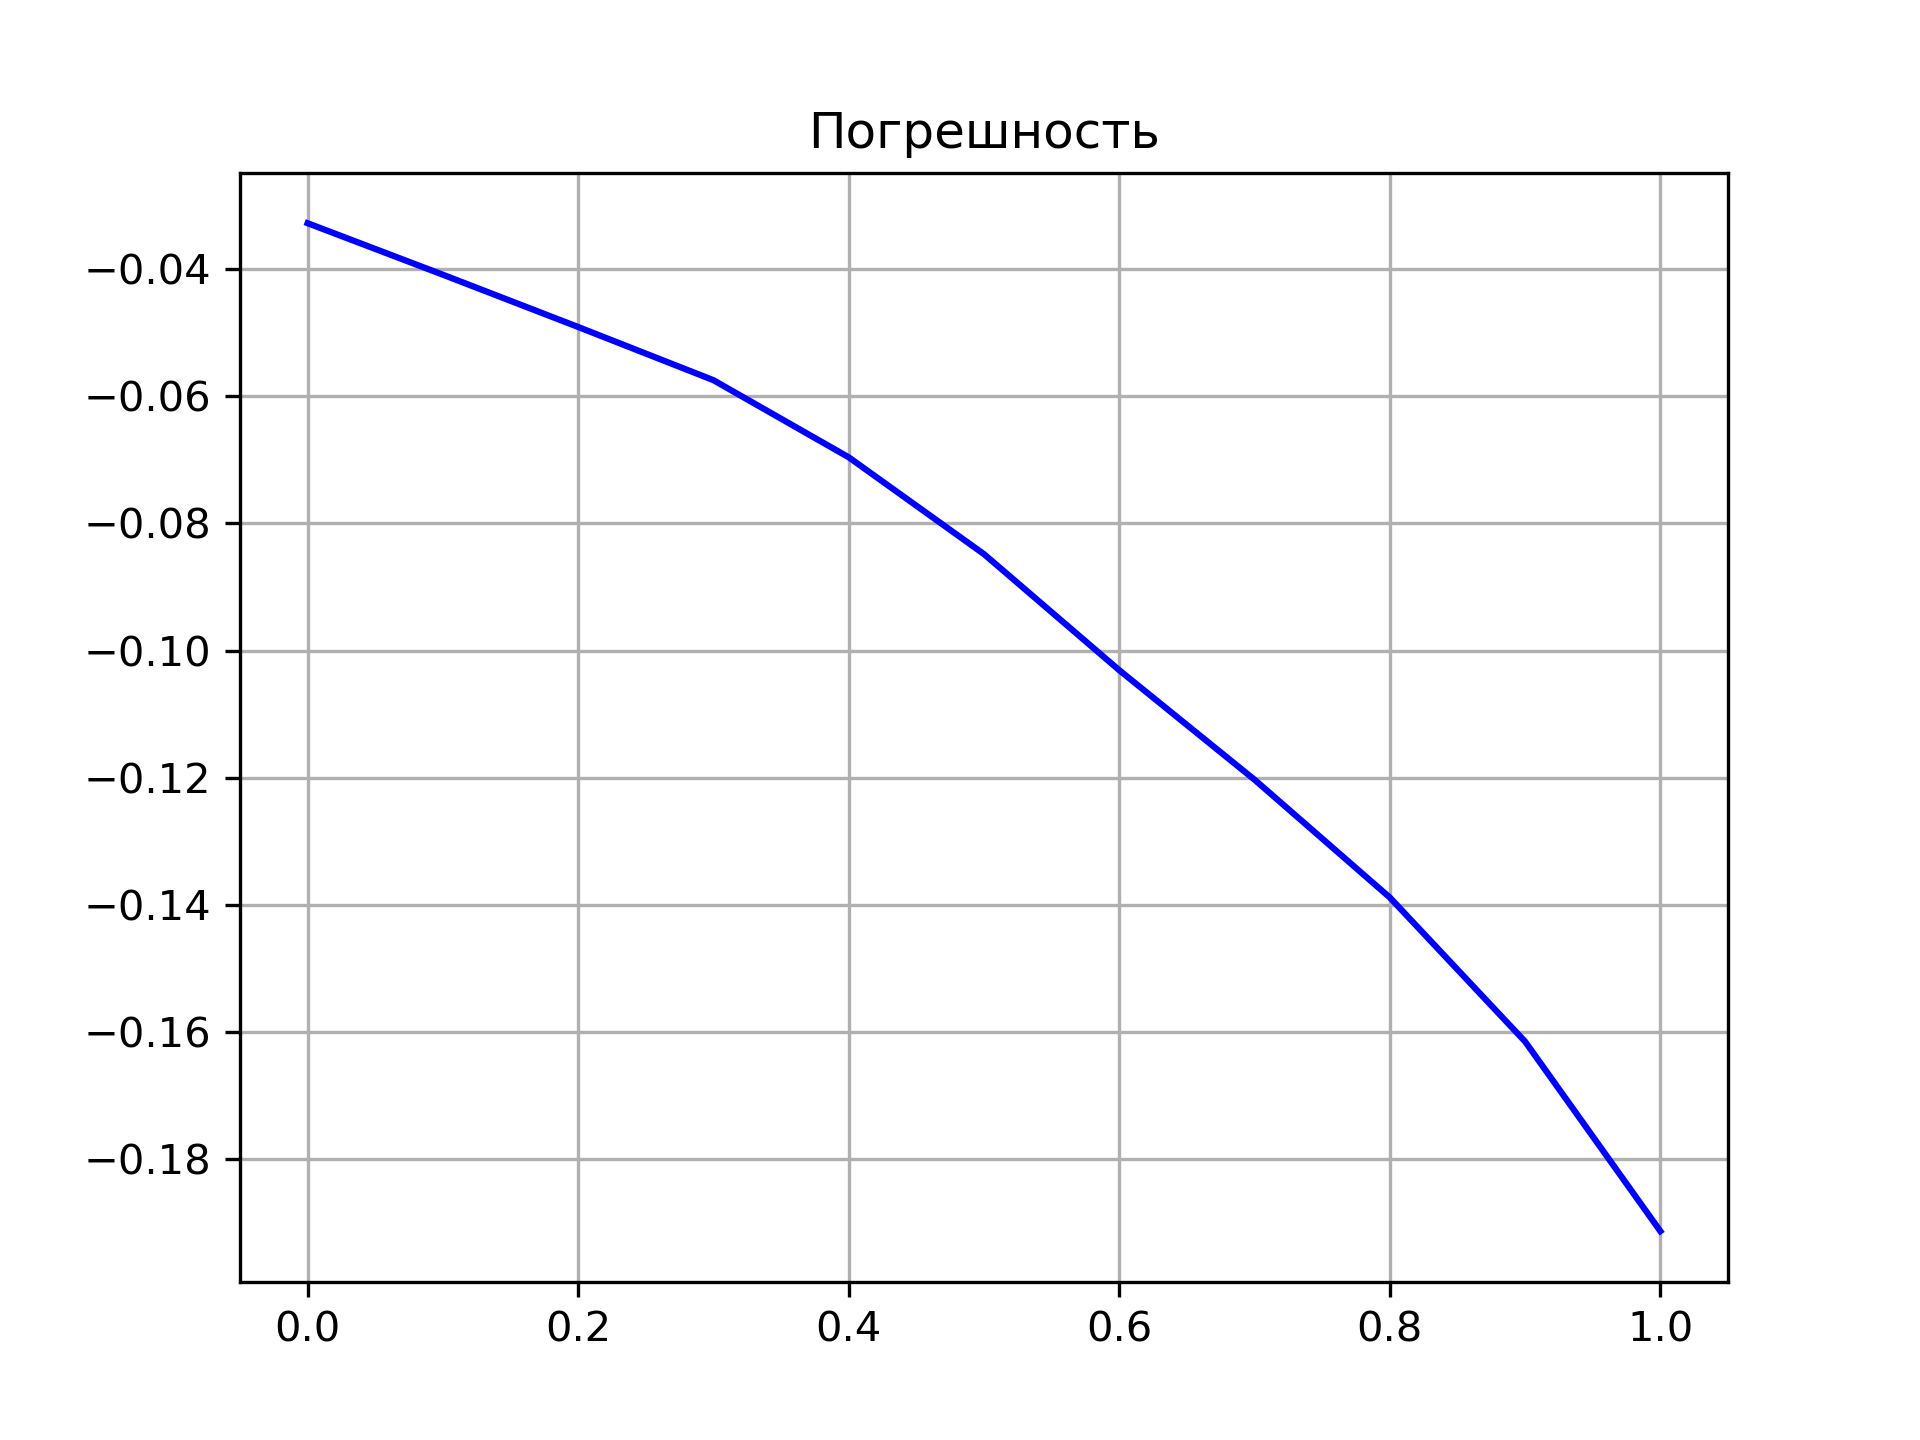
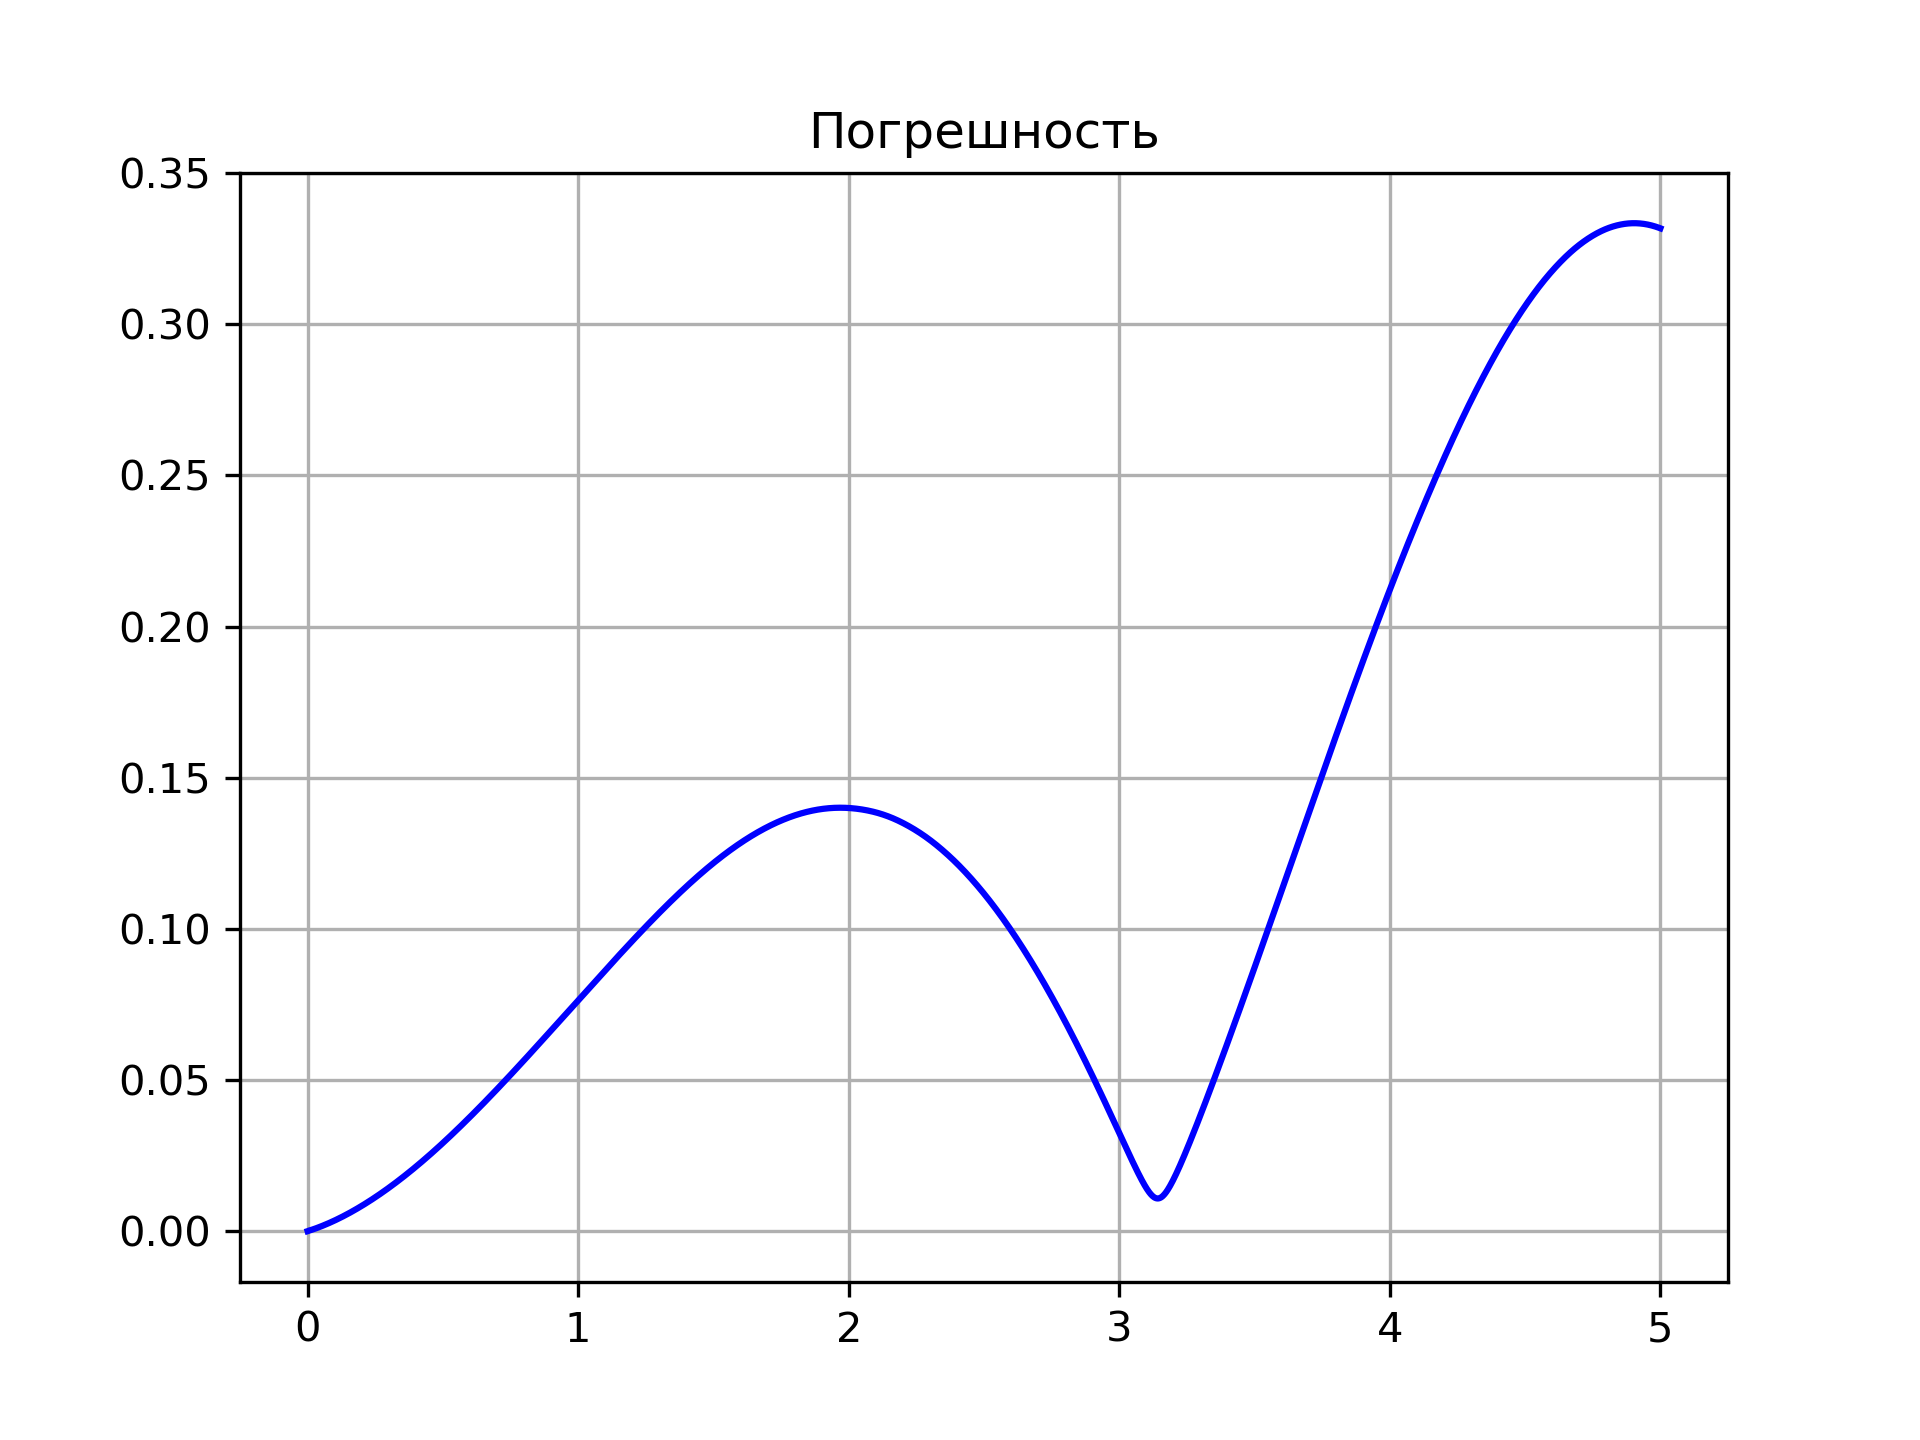
Добавление сигмы и начало придумывания extra коэфа (ЛР2)

diff --git a/lab2/laba.py b/lab2/laba.py
@@ -1,19 +1,20 @@
-from numpy import exp, cos, array, zeros, sqrt, linalg, around, array_repr
+from numpy import exp, cos, array, zeros, sqrt, linalg, around, array_repr, linspace
 import matplotlib.pyplot as plt
+from math import ceil
 
 def f1(x):
     """Вычисление значение на нулевом слое\n\nx - i-ое значение икса из разбиения числовой прямой"""
-    return round(exp(2 * x), 7)
+    return round(exp(2 * x), 10))
 
 def U(x, t):
     """Аналитическое решение\n\nx - i-ое значение икса на разбиении числовой прямой\n\nt - k-ое времени t на разбиении времени"""
-    return round(f1(x) * cos(t), 7)
+    return round(f1(x) * cos(t), 10))
 
 def explicit_method(u, h, t, approximation):
     """Явный метод\n\nu - заполняемая матрица\n\nh - шаг по иксу\n\nt - шаг по времени\n\napproximation - метод аппрокисмации"""
     N = u.shape[1] - 1
     last_layer = u.shape[0] - 1
-    h = round(h**2, 7); t = round(t**2, 7) # Возведение h и t в квадрат для экономии времени при расчете слоя
+    h = round(h**2, 10)); t = round(t**2, 10)) # Возведение h и t в квадрат для экономии времени при расчете слоя
     for k in range(2, last_layer+1):
         for i, _ in enumerate(u[k]):
             if i == 0:
@@ -22,8 +23,8 @@ def explicit_method(u, h, t, approximation):
                 u = approximation(u, k, sqrt(h), sqrt(t))
                 break
             u[k, i] = t/h * u[k-1, i-1] + (2*h - 5*h*t - 2*t)/h * u[k-1, i] + t/h * u[k-1, i+1] - u[k-2, i]
-            u[k, i] = round(u[k, i], 7)
-    return u[last_layer]
+            u[k, i] = round(u[k, i], 10))
+    return u
 
 def implicit_method(u, h, t, approximation):
     """Неявный метод\n\nu - заполняемая матрица\n\nh - шаг по иксу\n\nt - шаг по времени\n\napproximation - метод аппрокисмации"""
@@ -39,24 +40,24 @@ def implicit_method(u, h, t, approximation):
                 A[N, N], A[N, N-1], A[N, N-2], B[N] = approximation(u, k, h, t, i=N)
                 break
             else:
-                A[i][i - 1] = round(1 / h**2, 7)
-                A[i][i] = round(-1/t**2 - 2/h**2 - 5, 7)
-                A[i][i + 1] = round(1 / h**2, 7)
-                B[i] = round((-2 * u[k-1, i] + u[k-2, i]) / t**2, 7)
+                A[i][i - 1] = round(1 / h**2, 10))
+                A[i][i] = round(-1/t**2 - 2/h**2 - 5, 10))
+                A[i][i + 1] = round(1 / h**2, 10))
+                B[i] = round((-2 * u[k-1, i] + u[k-2, i]) / t**2, 10))
         u[k] = around(linalg.solve(A, B), decimals=7)
-    return u[last_layer]
+    return u
 
 def twopoint_approximation__first_order(u, k, h, *args, **kwargs):
     """Двухточечная аппроксимация 1-ого порядка\n\nu - заполняемая матрица\n\nk - слой заполнения\n\nh - шаг по иксу"""
     N = u.shape[1] - 1
     if 'i' in kwargs:
         if kwargs['i'] == 0:
-            return 1, round(-1 / (1 + 2*h), 7), 0, 0
+            return 1, round(-1 / (1 + 2*h), 10)), 0, 0
         elif kwargs['i'] == N:
-            return 1, round(-1 / (1 - 2*h), 7), 0, 0
+            return 1, round(-1 / (1 - 2*h), 10)), 0, 0
     else:
-        u[k, 0] = round(u[k, 1] / (1 + 2*h), 7)
-        u[k, N] = round(u[k, N-1] / (1 - 2*h), 7)
+        u[k, 0] = round(u[k, 1] / (1 + 2*h), 10))
+        u[k, N] = round(u[k, N-1] / (1 - 2*h), 10))
     return u
     
 def twopoint_approximation__second_order(u, k, h, *args, **kwargs):
@@ -64,34 +65,34 @@ def twopoint_approximation__second_order(u, k, h, *args, **kwargs):
     N = u.shape[1] - 1
     if 'i' in kwargs:
         if kwargs['i'] == 0:
-            return round(4*h + 3, 7), -4, 1, 0
+            return round(4*h + 3, 10)), -4, 1, 0
         elif kwargs['i'] == N:
-            return round(4*h - 3, 7), 4, -1, 0
+            return round(4*h - 3, 10)), 4, -1, 0
     else:
         u[k, 0] = (4*u[k, 1] - u[k, 2]) / (4*h + 3)
-        u[k, 0] = round(u[k, 0], 7)
+        u[k, 0] = round(u[k, 0], 10))
         u[k, N] = (u[k, N-2] - 4*u[k, N-1]) / (4*h - 3)
-        u[k, N] = round(u[k, N], 7)
+        u[k, N] = round(u[k, N], 10))
     return u
 
 def threepoint_approximation__second_order(u, k, h, t, **kwargs):
     """Трёхточечная аппроксимация 2-ого порядка\n\nu - заполняемая матрица\n\nk - слой заполнения\n\nh - шаг по иксу\n\nt - шаг по времени"""
     N = u.shape[1] - 1
-    h_2 = round(h**2, 7); t_2 = round(t**2, 7) # чтобы квадраты не высчитывались каждый раз
+    h_2 = round(h**2, 10)); t_2 = round(t**2, 10)) # чтобы квадраты не высчитывались каждый раз
     if 'i' in kwargs:
         if kwargs['i'] == 0:
             return list(map(
-                lambda j: round(j, 7), [ 2*t_2 + h_2 + 4*sqrt(h)*t_2 + 5*h_2*t_2, -2*t_2, 0, 2*h_2*u[k-1, 0] - h_2*u[k-2, 0] ]
+                lambda j: round(j, 10)), [ 2*t_2 + h_2 + 4*sqrt(h)*t_2 + 5*h_2*t_2, -2*t_2, 0, 2*h_2*u[k-1, 0] - h_2*u[k-2, 0] ]
             ))
         elif kwargs['i'] == N:
             return list(map(
-                lambda j: round(j, 7), [ 2*t_2 + h_2 - 4*sqrt(h)*t_2 + 5*h_2*t_2, -2*t_2, 0, 2*h_2*u[k-1, N] - h_2*u[k-2, N] ]
+                lambda j: round(j, 10)), [ 2*t_2 + h_2 - 4*sqrt(h)*t_2 + 5*h_2*t_2, -2*t_2, 0, 2*h_2*u[k-1, N] - h_2*u[k-2, N] ]
             ))
     else:
         u[k, 0] = (-h_2*u[k-2, 0] + 2*h_2*u[k-1, 0] + 2*t_2*u[k, 1]) / (2*t_2 + h_2 + 4*h*t_2 + 5*h_2*t_2)
-        u[k, 0] = round(u[k, 0], 7)
+        u[k, 0] = round(u[k, 0], 10))
         u[k, N] = (-h_2*u[k-2, N] + 2*h_2*u[k-1, N] + 2*t_2*u[k, N-1]) / (2*t_2 + h_2 - 4*h*t_2 + 5*h_2*t_2)
-        u[k, N] = round(u[k, N], 7)
+        u[k, N] = round(u[k, N], 10))
     return u
 
 def second_initial_condition__first_order(u, *args):
@@ -110,13 +111,41 @@ def split(start, end, step):
     spliting = []
     i = start
     while i < end:
-        spliting.append(round(i, 7))
-        i = round(i + step, 7)
+        spliting.append(round(i, 10)))
+        i = round(i + step, 10))
     spliting.append(end)
 
     return array(spliting)
+
+def get_error(split_x, split_t, u, N, last_layer):
+
+    error = zeros((last_layer))
+
+    for k, t in enumerate(split_t):
+        true_res = zeros((N))
+        for i, x in enumerate(split_x):
+            true_res[i] = U(x, t)
+        error[k] = linalg.norm(true_res - u[k])
+
+        # if not k%200:
+            
+        #     print(k)
+        #     print(u[k][N-1])
+        #     print('\n')
+        #     plt.plot(split_x, true_res, color='green')
+        #     plt.plot(split_x, u[k], color='red')
+        #     plt.grid(True)
+        #     plt.title('График')
+        #     plt.show()
+
+    plt.plot(split_t, error, color='blue')
+    plt.grid(True)
+    plt.title('Погрешность')
+    plt.show()
     
-def solve(method, approximation, second_initial_condition, t_end, num_split):
+    return error
+    
+def solve(method, approximation, second_initial_condition, t_end, num_split_x, sigma):
     """Решатель начально-краевой задачи для дифференциального уравнения гиперболического типа\n\nmethod - схема решения\n\napproximation - аппроксимация производной по x\n\nsecond_initial_condition - аппроксимация второго начального условия\n\nt_end - время окончания\n\nnum_split - количество разбиений икса"""
     SELECT_METHOD = {
         'Явный': explicit_method,
@@ -137,10 +166,16 @@ def solve(method, approximation, second_initial_condition, t_end, num_split):
 
     x0 = 0; xN = 1
     t_start = 0
-    h = xN / num_split
-    t = h / 10
-    split_x = array(split(x0, xN, h))
-    split_t = array(split(t_start, t_end, t))
+    
+    split_x = linspace(x0, xN, num_split_x)
+    h = round(split_x[1] - split_x[0], 10))
+    num_split_t = ceil(t_end / (h * sigma))
+    split_t = linspace(t_start, t_end, num_split_t)
+    t = split_t[1] - split_t[0]
+    # print(len(split_x), num_split_x)
+    # print(len(split_t), num_split_t)
+    # print(h, t)
+
     N = len(split_x)
     last_layer = len(split_t)
     u = zeros((last_layer, N)) # В u загоняем решение
@@ -159,16 +194,18 @@ def solve(method, approximation, second_initial_condition, t_end, num_split):
     u = method(u, h, t, approximation)
 
     plt.plot(split_x, true_points, color='green')
-    plt.plot(split_x, u, color='red')
+    plt.plot(split_x, u[last_layer-1], color='red')
     plt.grid(True)
     plt.title('График')
     plt.savefig('graph.png', format='png', dpi=300)
     plt.clf()
-    plt.plot(split_x, u - true_points, color='blue')
+
+    error = get_error(split_x, split_t, u, N, last_layer)
+    plt.plot(split_t, error, color='blue')
     plt.grid(True)
     plt.title('Погрешность')
     plt.savefig('error.png', format='png', dpi=300)
     plt.clf()
 
 if __name__ == '__main__':
-    solve('Неявный', 'Трехточечная 2-ого порядка', '1-ого порядка', 1, 1, 10)
+    solve('Явный', 'Двухточечная 2-ого порядка', '1-ого порядка', 5, 50, 0.1)

diff --git a/lab2/forms.py b/lab2/forms.py
@@ -23,7 +23,7 @@ class InputDataForm(forms.Form):
     method = forms.ChoiceField(label='Выберите метод решения', choices=CHOICES_METHOD, widget=forms.RadioSelect, required=True)
     approximation = forms.ChoiceField(label='Выберите аппроксимацию', choices=CHOICES_APPROXIMATION, widget=forms.RadioSelect, required=True)
     second_initial_condition = forms.ChoiceField(label='Выберите аппроксимацию 2-ого начального условия', choices=CHOICES_SECOND_INITIAL_CONDITION, widget=forms.RadioSelect, required=True)
-    # overlay = forms.ChoiceField(label='Накладывать графики друг на друга?', choices=CHOICES_OVERLAY, widget=forms.RadioSelect)
     # x_end = forms.FloatField(label='Окончание отчета по иксу', required=True)
     t_end = forms.FloatField(label='Окончание по времени', required=True)
     num_split = forms.IntegerField(label='Количество разбиений икса', required=True)
+    sigma = forms.FloatField(label='Число Куранта', required=True)

diff --git a/lab2/views.py b/lab2/views.py
@@ -7,7 +7,6 @@ from .laba import solve
 class Lab2View(View):
 
     template_name = 'lab2/laba.html'
-    show_graph = False
 
     def get(self, request):
 
@@ -24,8 +23,9 @@ class Lab2View(View):
         # x_end = float(request.POST.get('x_end'))
         t_end = float(request.POST.get('t_end'))
         num_split = int(request.POST.get('num_split'))
+        sigma = float(request.POST.get('sigma'))
 
-        solve(method, approximation, second_initial_condition, t_end, num_split)
+        solve(method, approximation, second_initial_condition, t_end, num_split, sigma)
         root_dir = os.path.abspath(os.curdir)
         os.remove(root_dir + '\common_static\img\graph.png')
         os.remove(root_dir + '\common_static\img\error.png')

diff --git a/lab1/laba.py b/lab1/laba.py
@@ -56,10 +56,8 @@ def explicit_method(a, N, K, L, T, x_vals, approx_type):
     u = []
     h = L / N
     tao = T / K
-    print(h, tao)
     sigma = a * tao / (h ** 2)
     k = 0
-    err = []
     for t in np.linspace(0, T, K + 1):
         if t == 0:
             time_result = []
@@ -142,6 +140,7 @@ def solve(a, n, T, sigma, approx_type, scheme):
     L = np.pi
     h = L / n
     K = count_time_interval(h, a, T, sigma)
+    
     x_vals = [x for x in np.linspace(0, L, n + 1)]
     time_vals = [t for t in np.linspace(0, T, K)]
     if scheme == 'Явный':

diff --git a/lab2/test.py b/lab2/test.py
@@ -1,3 +1,5 @@
-import os
+from math import cos, pi
+lst = [0, 1, 2, 3, 4, 5, 6, 7, 8, 9, 10, pi/2]
 
-print(os.path.abspath(os.curdir)+'\some.png')
+for i in lst:
+    print(round(i, 10), round(i%pi, 10) < round(pi/2, 10))
